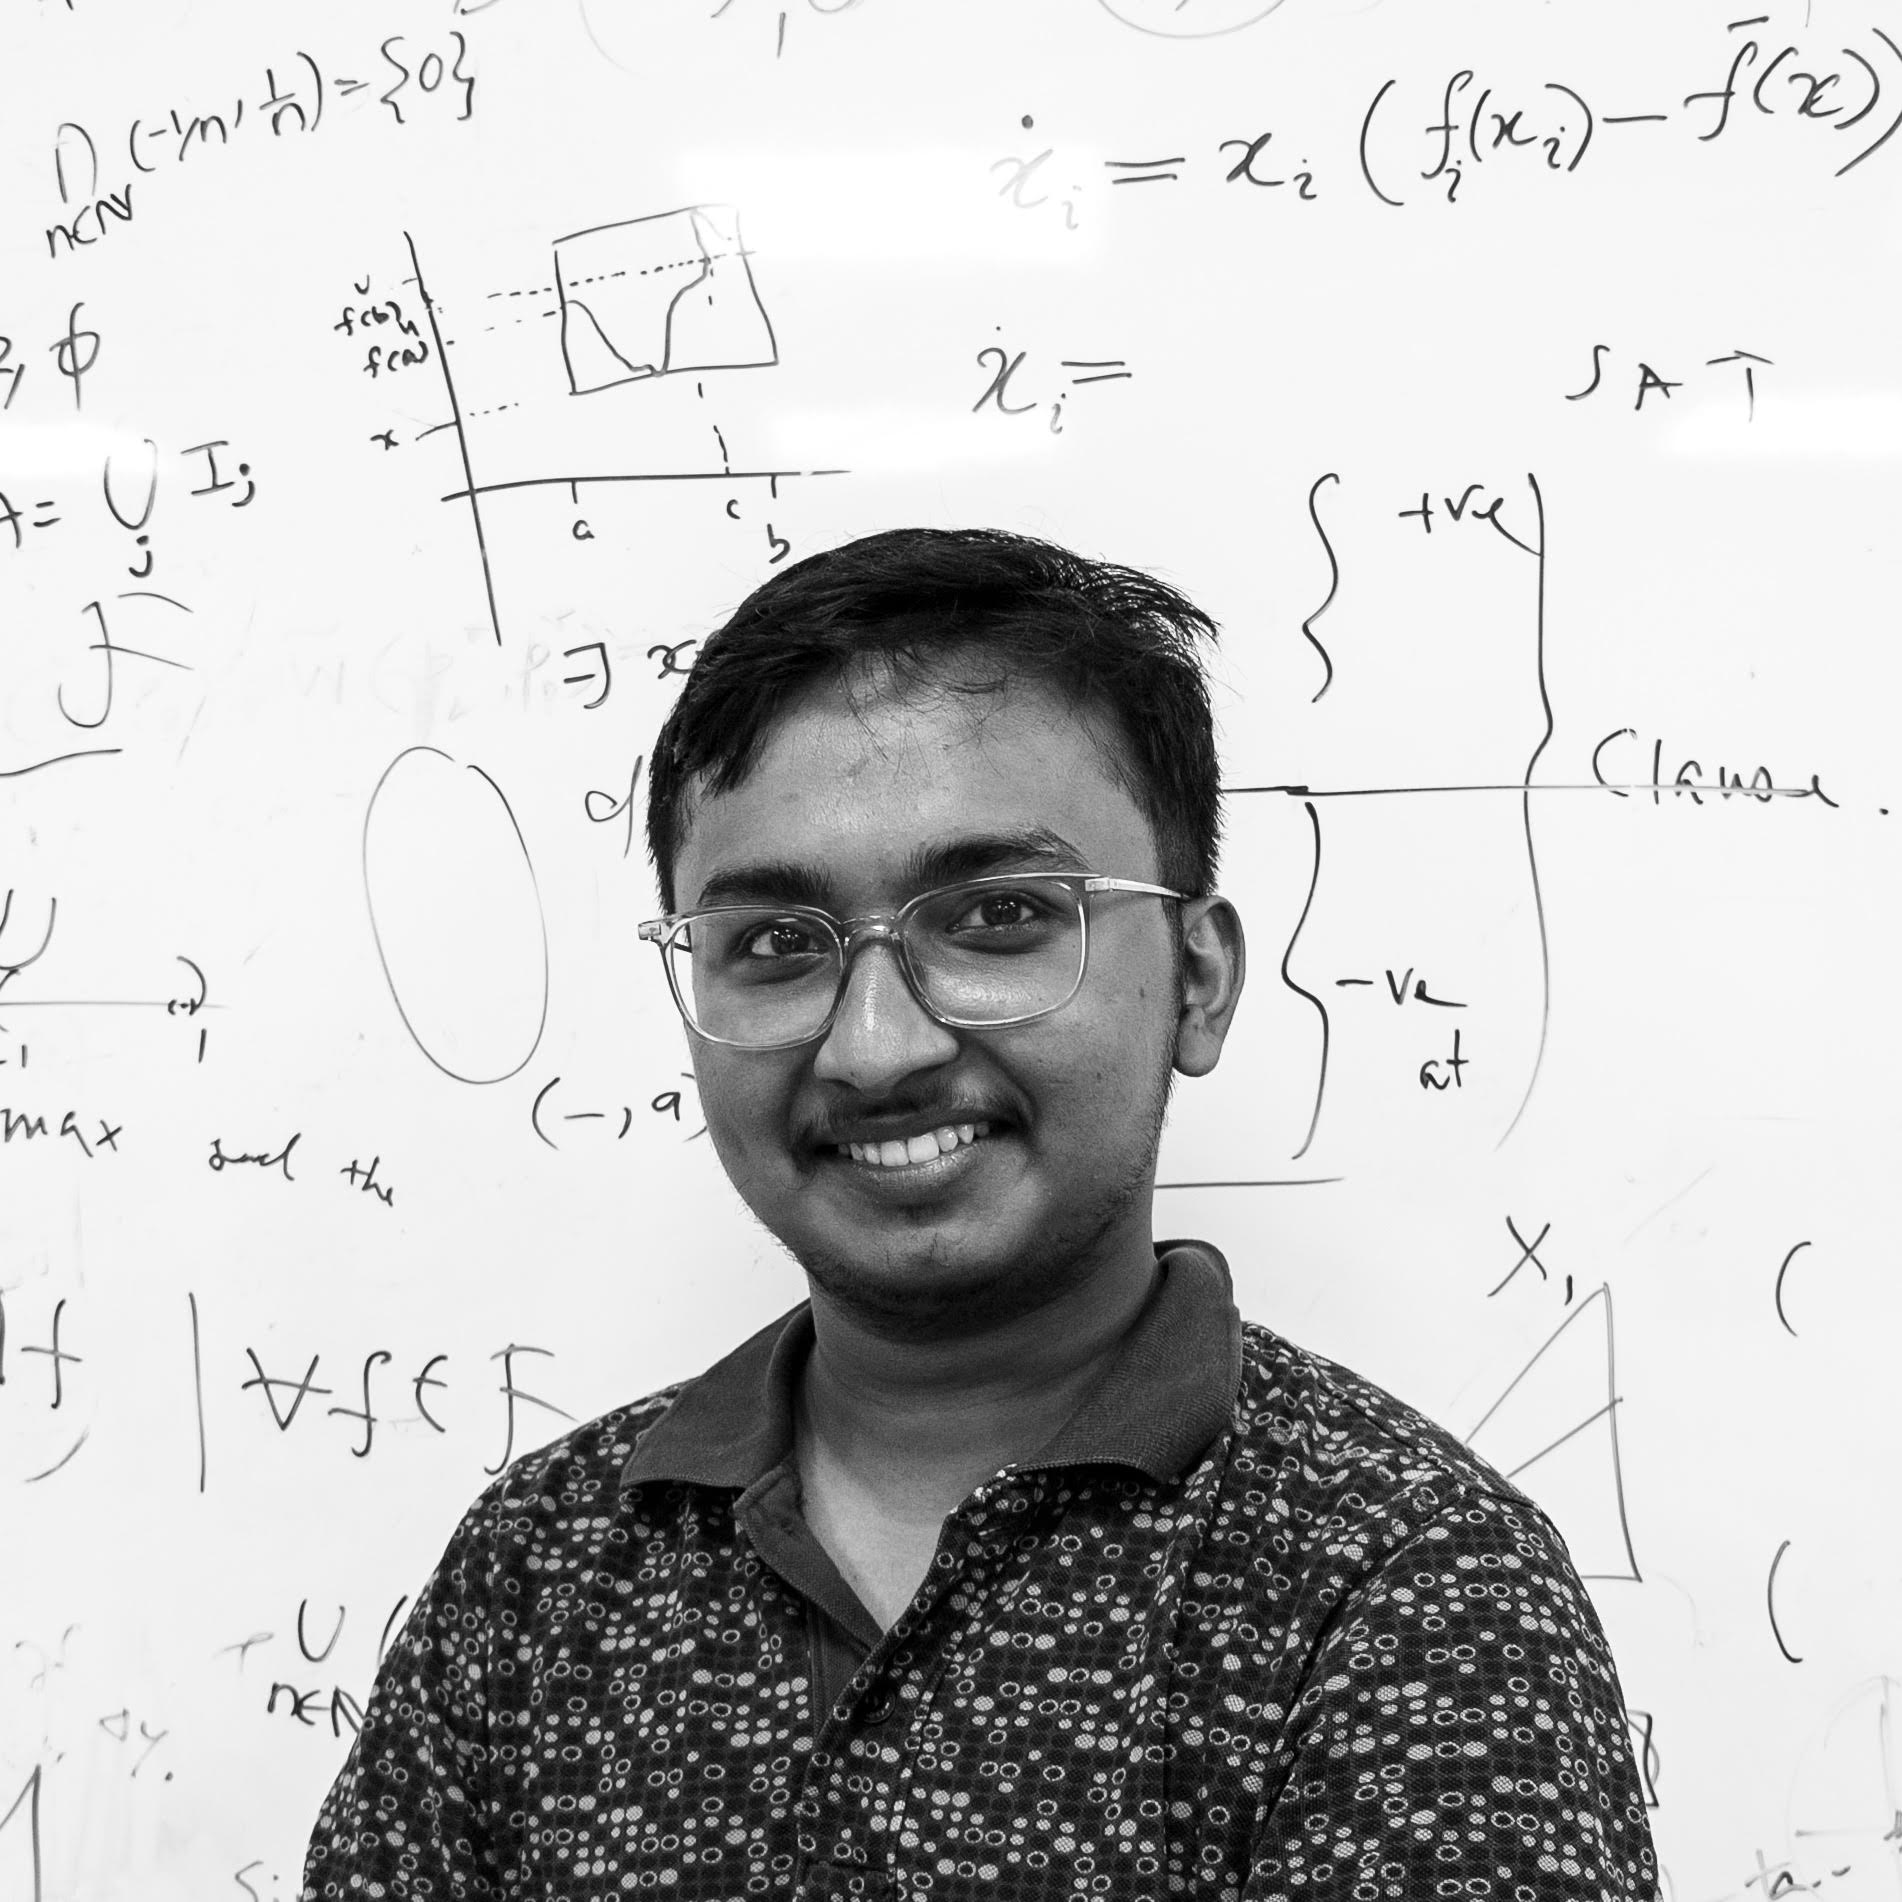
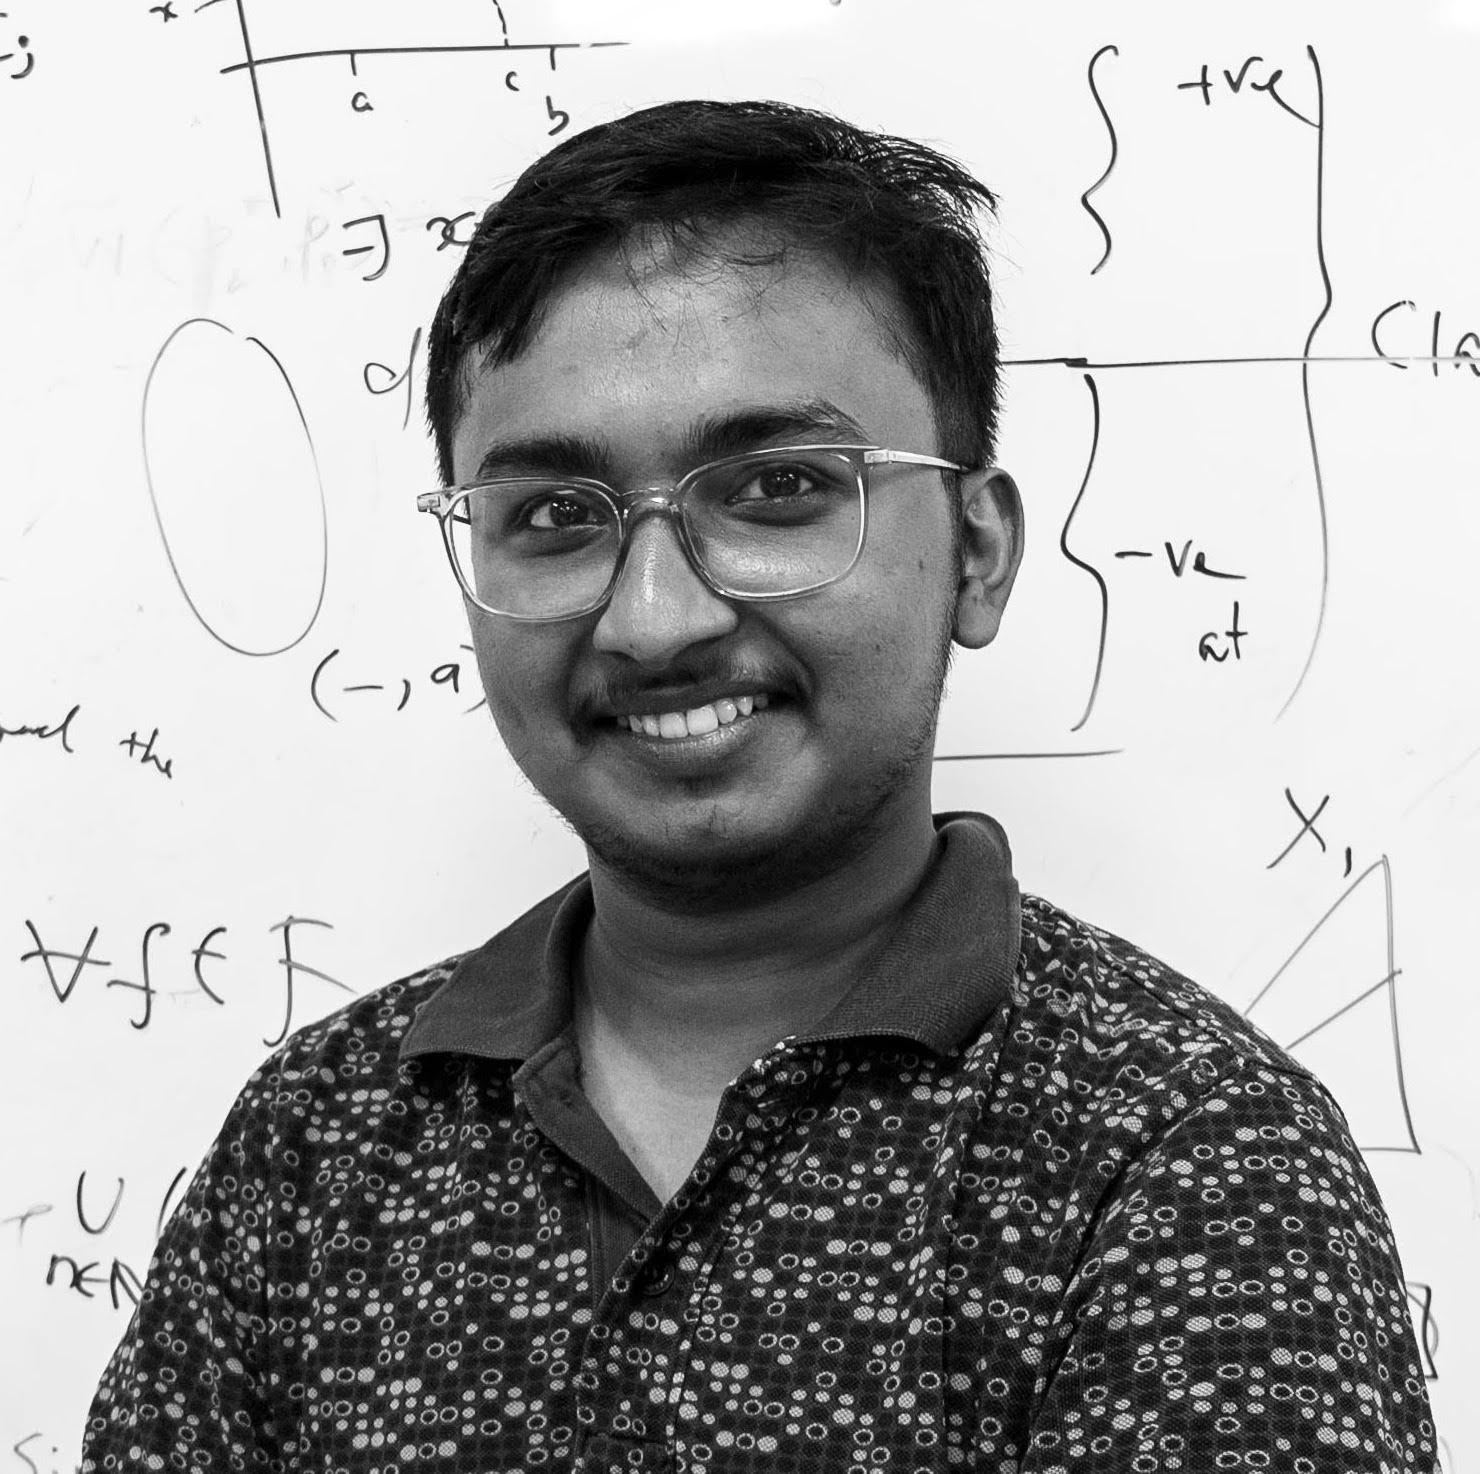
minor updates

diff --git a/js/render-post.js b/js/render-post.js
@@ -1,0 +1,36 @@
+async function loadPost() {
+    const postContent = document.getElementById("post-content");
+    const parameters = new URLSearchParams(window.location.search);
+    const postName = parameters.get("name");
+
+    if (!postName || !/^[a-zA-Z0-9-]+$/.test(postName)) {
+        postContent.textContent = "Post not found.";
+        return;
+    }
+
+    try {
+        const response = await fetch(`blogs/${postName}.md`);
+
+        if (!response.ok) {
+            throw new Error("Post could not be loaded.");
+        }
+
+        const markdown = await response.text();
+        postContent.innerHTML = marked.parse(markdown);
+
+        const heading = postContent.querySelector("h1");
+
+        if (heading) {
+            document.title = `${heading.textContent} | T. R. Harikrishnan`;
+        }
+        if (window.MathJax) {
+            await MathJax.startup.promise;
+            await MathJax.typesetPromise([postContent]);
+        }
+    } catch (error) {
+        postContent.textContent = "Post could not be loaded.";
+        console.error(error);
+    }
+}
+
+loadPost();

diff --git a/post.html b/post.html
@@ -1,0 +1,38 @@
+<!DOCTYPE html>
+<html lang="en">
+<head>
+    <meta charset="UTF-8">
+    <meta name="viewport" content="width=device-width, initial-scale=1.0">
+
+    <title>Blog | T. R. Harikrishnan</title>
+
+    <link rel="stylesheet" href="css/style.css">
+
+    <script>
+        window.MathJax = {
+            tex: {
+                inlineMath: [['$', '$'], ['\\(', '\\)']]
+            }
+        };
+    </script>
+
+    <script defer src="https://cdn.jsdelivr.net/npm/marked/marked.min.js"></script>
+    <script defer src="https://cdn.jsdelivr.net/npm/mathjax@3/es5/tex-chtml.js"></script>
+</head>
+
+<body>
+
+    <div id="header"></div>
+
+    <main>
+        <article id="post-content">
+            Loading post...
+        </article>
+    </main>
+
+    <div id="footer"></div>
+    
+<script defer src="js/components.js"></script>
+<script defer src="js/render-post.js"></script>
+</body>
+</html>

diff --git a/components/footer.html b/components/footer.html
@@ -3,17 +3,16 @@
         <p>
             Email:
             <a href="mailto:haritr@imsc.res.in">
-                [ haritr at imsc dot res dot in ]
+                [haritr at imsc dot res dot in]
             </a>
-
+            or
             <a href="mailto:haritr1503@gmail.com">
-                [ haritr1503 at gmail dot com ]
+                [haritr1503 at gmail dot com]
             </a>
         </p>
 
         <p>
-            This website is designed and maintained by
-            <a href="https://akshaysanjeevk.github.io/">
+            This website is designed by <a href="https://akshaysanjeevk.github.io/">
                 K. Akshay Sanjeev
             </a>
         </p>

diff --git a/cv.html b/cv.html
@@ -58,7 +58,7 @@
         </section>
 
         <section>
-            <h2>Conferences and Workshops</h2>
+            <h2>Conferences and Workshops </h2>
 
             <ul>
                 <li>Annual Foundation School III, IIST, 2024</li>
@@ -78,15 +78,7 @@
             </p>
         </section>
 
-        <section>
-            <h2>Qualifications and Scholarships</h2>
 
-            <ul>
-                <li>GATE Mathematics 2024 — AIR 81</li>
-                <li>CSIR NET Lectureship — AIR 17 and AIR 55</li>
-                <li>INSPIRE Scholarship for Higher Education, 2018-2023</li>
-            </ul>
-        </section>
 
     </main>
     <div id="footer"></div>

diff --git a/research.html b/research.html
@@ -40,7 +40,7 @@
             <h3>Reading Project</h3>
             <p>
                 <strong>A Study on Projective Modules</strong><br>
-                Advisor Dr. Prosenjit Das, IIST<br>
+                Advisor: Dr. Prosenjit Das, IIST<br>
                 <a href="assets/documents/reading_project_report.pdf" target="_blank">
                     Project Report. 
                 </a>

diff --git a/scribble_list.html b/scribble_list.html
@@ -52,7 +52,8 @@
 
         <section>
             <h2>Blog Posts</h2>
-            I may or may not write blog posts. 
+            Coming soon!
+            <!-- <a href="post.html?name=fomin">Fomin's Growth Diagrams</a> -->
         </section>
 
     </main>

diff --git a/css/style.css b/css/style.css
@@ -37,7 +37,7 @@ nav a {
 }
 
 nav a:hover {
-    color: #0004ff;
+    color: #ff0000;
 }
 
 #theme-toggle {
@@ -97,7 +97,7 @@ footer {
 }
 
 footer a {
-    color: #0004ff;
+    color: #ff0000;
     text-decoration: none;
 }
 

diff --git a/blogs/fomin.md b/blogs/fomin.md
@@ -1,0 +1,23 @@
+# Fomin's Growth Diagrams
+
+Fomin's growth diagrams provide a geometric framework for understanding the **Robinson correspondence** and its generalizations to differential posets. Instead of viewing insertion as an algorithm, one studies local rules on a square grid whose vertices are labelled by elements of a graded poset.
+
+For a graded poset $P$, let $f_\lambda$ denote the number of saturated chains from the minimum element $\hat{0}$ to $\lambda$. One of the fundamental identities is
+
+$$
+\sum_{|\lambda|=n} f_\lambda^2 = n!.
+$$
+
+A growth diagram consists of a grid whose vertices are labelled by elements of $P$. Adjacent labels satisfy covering relations, and each square obeys a **local rule**.
+
+For example, if three vertices of a square are labelled by $\lambda,\mu,\nu$, then the fourth label $\rho$ is determined uniquely by the local rule whenever the growth is semimodular.
+
+The covering relation is denoted by $\lambda \lessdot \mu$, meaning that $\mu$ covers $\lambda$.
+
+The rank function satisfies
+
+$$
+|\mu| = |\lambda| + 1
+$$
+
+whenever $\lambda \lessdot \mu$.
